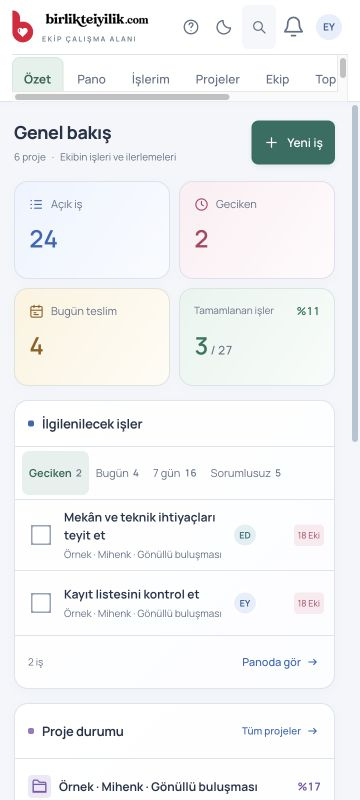
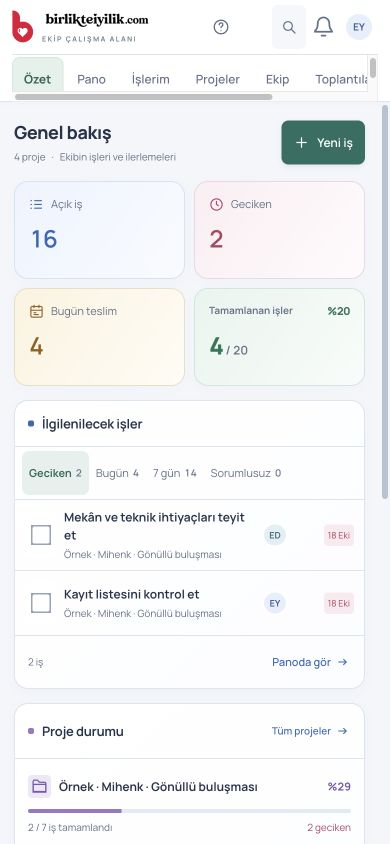
Refine completion card typography and smooth ring progress

diff --git a/web/dashboard.js b/web/dashboard.js
@@ -8,7 +8,7 @@
     const date=new Date(d.day+'T12:00:00Z').toLocaleDateString('tr-TR',{timeZone:'Europe/Istanbul',day:'numeric',month:'long',weekday:'long'});
     const emptyStart=!d.projects.length&&!d.items.length?`<section class="dash-start"><span>${I('projects')}</span><h2>${canCreate?'İlk işinizle başlayın':'İşleriniz burada görünecek'}</h2><p>${canCreate?'Ufak bir iş için Yeni iş yeterli. Birlikte yürütülecek bir çalışma için proje açabilirsiniz.':'Yeni iş ile kendinize bir günlük iş ekleyin. Size atanan proje işleri de burada görünür.'}</p>${canCreate?'<button class="h-btn primary" data-hub="new-project">Proje oluştur</button>':'<button class="h-btn" data-hub="nav" data-view="people">Ekibi gör</button>'}</section>`:'';
     return `<section class="dashboard-page"><header class="dash-heading"><div><h1 id="hub-heading" tabindex="-1">Genel bakış</h1><p>${d.projects.length} proje <span>·</span> Ekibin işleri ve ilerlemeleri</p></div><div><time datetime="${E(d.day)}">${E(date)}</time>${canWrite?`<button class="h-btn primary" data-hub="new-task">${I('plus')}Yeni iş</button>`:canCreate&&d.projects.length?`<button class="h-btn primary" data-hub="new-project">${I('plus')}Yeni proje</button>`:''}</div></header>
-    <section class="dash-summary" aria-label="Erişiminiz olan bütün projelerin özeti">${[['open',d.open,'Açık iş','tasks'],['overdue',d.attention.overdue.length,'Geciken','clock'],['today',d.attention.today.length,'Bugün teslim','calendar']].map(([filter,n,label,icon])=>`<button class="dash-stat ${filter}" data-hub="dashboard-board" data-filter="${filter}" aria-label="${n} ${label.toLocaleLowerCase('tr-TR')}; işleri gör"><span>${I(icon)}${label}</span><strong>${n}</strong>${I('arrow')}</button>`).join('')}<button class="dash-completed" data-hub="dashboard-board" data-filter="done" aria-label="${d.total} işten ${d.done} tanesi tamamlandı; işleri gör"><span>Tamamlanan işler <b ${d.total?'data-progress-number="dashboard:all" aria-hidden="true"':''}>${d.total?'%'+d.percent:'—'}</b></span><strong>${d.done}<small> / ${d.total}</small></strong><svg class="dash-ring" viewBox="0 0 48 48" aria-hidden="true" data-progress-key="dashboard:all" data-progress-value="${d.percent}" data-progress-kind="ring"><circle cx="24" cy="24" r="20" pathLength="100"/><circle data-progress-fill cx="24" cy="24" r="20" pathLength="100" style="stroke-dashoffset:${100-d.percent}"/></svg></button></section>
+    <section class="dash-summary" aria-label="Erişiminiz olan bütün projelerin özeti">${[['open',d.open,'Açık iş','tasks'],['overdue',d.attention.overdue.length,'Geciken','clock'],['today',d.attention.today.length,'Bugün teslim','calendar']].map(([filter,n,label,icon])=>`<button class="dash-stat ${filter}" data-hub="dashboard-board" data-filter="${filter}" aria-label="${n} ${label.toLocaleLowerCase('tr-TR')}; işleri gör"><span>${I(icon)}${label}</span><strong>${n}</strong>${I('arrow')}</button>`).join('')}<button class="dash-completed" data-hub="dashboard-board" data-filter="done" aria-label="${d.total} işten ${d.done} tanesi tamamlandı; işleri gör"><span>Tamamlanan işler <b ${d.total?'data-progress-number="dashboard:all" aria-hidden="true"':''}>${d.total?'%'+d.percent:'—'}</b></span><strong>${d.done}<small> / ${d.total}</small></strong><svg class="dash-ring" viewBox="0 0 48 48" aria-hidden="true" data-progress-key="dashboard:all" data-progress-value="${d.percent}" data-progress-kind="ring" data-progress-easing="smooth"><circle cx="24" cy="24" r="20" pathLength="100"/><circle data-progress-fill cx="24" cy="24" r="20" pathLength="100" style="stroke-dashoffset:${100-d.percent}"/></svg></button></section>
     ${emptyStart||`<div class="dash-main"><section class="dash-panel dash-attention"><header><h2>İlgilenilecek işler</h2></header><div class="dash-tabs" aria-label="İlgilenilecek işlerin filtresi">${Object.keys(labels).map(key=>`<button class="${tab===key?'active':''}" data-hub="dashboard-attention" data-filter="${key}" aria-pressed="${tab===key}">${labels[key]}<b>${d.attention[key].length}</b></button>`).join('')}</div><div class="dash-work-list" aria-live="polite">${rows.slice(0,4).map(t=>`<article class="dash-work"><button class="h-check dash-check" role="checkbox" aria-checked="false" aria-label="${E(t.text)} — tamamla" data-hub="toggle" data-key="${E(t.key)}" ${!t.editable?'disabled':''}></button><button data-hub="detail" data-key="${E(t.key)}"><strong>${E(t.text)}</strong><small>${E(t.boardName)}</small></button><span class="dash-work-owner">${avatar(t.owner,'',t.ownerId)}<span>${E(t.owner||'Atanmadı')}</span></span>${due(t)}</article>`).join('')||`<div class="dash-empty">${I('checkCircle')}<strong>${empty[0]}</strong><p>${empty[1]}</p></div>`}</div><footer><span>${rows.length>4?`İlk 4 / ${rows.length} iş`:rows.length+' iş'}</span><button class="h-link" data-hub="dashboard-board" data-filter="${tab}">Panoda gör ${I('arrow')}</button></footer></section>
     <section class="dash-panel dash-projects"><header><h2>Proje durumu</h2><button class="h-link" data-hub="nav" data-view="projects">Tüm projeler ${I('arrow')}</button></header><div>${d.projects.slice(0,4).map(b=>`<button class="dash-project" data-hub="project" data-id="${E(b.id)}"><span class="dash-project-name"><span>${I('projects')}<strong>${E(b.name)}</strong></span><b>${b.total?'%'+b.percent:'—'}</b></span><span class="dash-project-track" aria-hidden="true" data-progress-key="dashboard:${E(b.id)}" data-progress-value="${b.percent}"><i style="transform:scaleX(${b.percent/100})"></i></span><span class="dash-project-meta"><span>${b.total?b.done+' / '+b.total+' iş tamamlandı':'Henüz iş eklenmedi'}</span><span class="${b.late?'late':''}">${b.late?b.late+' geciken':b.open?b.open+' açık':b.total?'Tamamlandı':'İş ekle'}</span></span></button>`).join('')}</div></section></div>
     <section class="dash-panel dash-workload"><header><h2>İş paylaşımı</h2><span>Açık işler · sorumluya göre</span><button class="h-link" data-hub="nav" data-view="people">Ekibi gör ${I('arrow')}</button></header>${d.people.length?`<div class="dash-people">${d.people.slice(0,6).map(p=>`<button data-hub="dashboard-owner" data-owner="${E(p.key)}" aria-label="${E(p.name)}: ${p.open} açık iş, ${p.late} geciken">${avatar(p.name,'',p.id)}<span><strong>${E(p.name)}</strong><small>${p.late?p.late+' geciken':p.doing?p.doing+' devam ediyor':'Yapılacak işler'}</small></span><b>${p.open}<small>açık</small></b></button>`).join('')}</div>`:'<p class="dash-no-people">Sorumlusu belirlenmiş açık işler burada listelenir.</p>'}${d.attention.unassigned.length?`<button class="dash-unassigned" data-hub="dashboard-board" data-filter="unassigned">${I('user')} ${d.attention.unassigned.length} açık işin sorumlusu henüz belirlenmedi ${I('arrow')}</button>`:''}</section>`}

diff --git a/web/motion.js b/web/motion.js
@@ -18,7 +18,7 @@ function counterTick(now){
  counterFrame=0;
  for(const [el,c] of counters){
   if(!el.isConnected){counters.delete(el);continue;}
-  const t=Math.min(1,Math.max(0,(now-c.start)/c.duration)),ease=1-(1-t)**3;
+  const t=Math.min(1,Math.max(0,(now-c.start)/c.duration)),ease=c.smooth?t*t*(3-2*t):1-(1-t)**3;
   el.textContent='%'+Math.round(c.from+(c.to-c.from)*ease);
   if(t===1)counters.delete(el);
  }
@@ -32,10 +32,11 @@ function startProgress(track){
  const fill=track.querySelector('[data-progress-fill]')||track.firstElementChild;
  if(preference.matches||document.hidden||!fill?.animate){if(number)number.textContent='%'+value;return;}
  if(prior===value&&!replay)return;
- const from=replay?0:prior??0,ms=prior===undefined||replay?duration:650;
+ const from=replay?0:prior??0,smooth=track.dataset.progressEasing==='smooth',ms=prior===undefined||replay?(smooth?1200:duration):650;
  const frames=track.dataset.progressKind==='ring'?[{strokeDashoffset:100-from},{strokeDashoffset:100-value}]:[{transform:`scaleX(${from/100})`},{transform:`scaleX(${value/100})`}];
- animate(fill,frames,{duration:ms,easing});
- if(number){number.textContent='%'+from;counters.set(number,{from,to:value,start:performance.now(),duration:ms});if(!counterFrame)counterFrame=requestAnimationFrame(counterTick);}
+ // Linear time coordinates keep the ring and its numeric counter on the same curve.
+ animate(fill,frames,{duration:ms,easing:smooth?'cubic-bezier(.333333,0,.666667,1)':easing});
+ if(number){number.textContent='%'+from;counters.set(number,{from,to:value,start:performance.now(),duration:ms,smooth});if(!counterFrame)counterFrame=requestAnimationFrame(counterTick);}
 }
 const observer=typeof IntersectionObserver==='function'?new IntersectionObserver(entries=>{for(const e of entries)if(e.isIntersecting)startProgress(e.target);},{threshold:.15}):null;
 function progressMotion(){

diff --git a/web/night-ui.css b/web/night-ui.css
@@ -65,7 +65,16 @@ body.night-ui .h-task-due.overdue {background:var(--status-red-soft);color:var(-
 .night-ui .dash-stat.overdue>span svg,.night-ui .dash-stat.overdue>strong {color:var(--ui-rose)}
 .night-ui .dash-stat.today>span svg,.night-ui .dash-stat.today>strong {color:var(--ui-amber)}
 .night-ui .dash-completed strong,.night-ui .dash-completed b {color:var(--ui-mint)}
-.night-ui .dash-ring {width:54px;height:54px;stroke-width:3.5}.night-ui .dash-ring circle {stroke:#3c4b47}.night-ui .dash-ring [data-progress-fill] {stroke:var(--ui-mint)}
+.night-ui .dash-completed>span {font-weight:650;line-height:1.5;padding-right:72px}
+.night-ui .dash-completed>strong {font-weight:780;padding-right:72px}
+.night-ui .dash-completed strong small {font-weight:600;font-variant-numeric:tabular-nums}
+.night-ui .dash-completed b {position:absolute;right:20px;top:50%;transform:translateY(-50%);width:62px;text-align:center;font-size:12px;font-weight:800;font-variant-numeric:tabular-nums;letter-spacing:-.25px;line-height:1;z-index:1}
+.night-ui .dash-ring {width:62px;height:62px;stroke-width:5}.night-ui .dash-ring circle {stroke:#3c4b47}.night-ui .dash-ring [data-progress-fill] {stroke:var(--ui-mint)}
+.night-ui .dash-ring[data-progress-value="0"] [data-progress-fill] {visibility:hidden}
+@media(max-width:1150px){
+ .night-ui .dash-completed>span,.night-ui .dash-completed>strong {padding-right:0}
+ .night-ui .dash-completed b {position:static;transform:none;width:auto;font-size:11px;line-height:inherit}
+}
 .night-ui .dash-main {gap:20px;margin-bottom:20px}
 .night-ui :is(.dash-panel>header,.dash-panel>footer,.dash-tabs,.dash-work,.dash-project,.dash-unassigned) {border-color:var(--ui-line)}
 .night-ui .dash-panel>header {padding-block:15px}

diff --git a/web/index.html b/web/index.html
@@ -24,7 +24,7 @@
   <link rel="stylesheet" href="operations.css">
   <link rel="stylesheet" href="workspace-flow.css?v=20261019-guide2">
   <link rel="stylesheet" href="product-ui.css?v=20261019-guide2">
-  <link rel="stylesheet" href="night-ui.css?v=20261019-guide2" media="screen">
+  <link rel="stylesheet" href="night-ui.css?v=20261019-progress" media="screen">
   <link rel="stylesheet" href="project-setup.css?v=20261019-guide2">
   <link rel="stylesheet" href="light-ui.css?v=20261019-guide2" media="screen">
 </head>
@@ -88,7 +88,7 @@
   <script src="collab.js"></script>
   <script src="hub-model.js?v=20261019-guide2"></script>
   <script src="dashboard-model.js?v=20261019-guide2"></script>
-  <script src="dashboard.js?v=20261019-guide2"></script>
+  <script src="dashboard.js?v=20261019-progress"></script>
   <script src="examples.js"></script>
   <script src="templates.js"></script>
   <script src="project-setup.js?v=20261019-guide2"></script>
@@ -108,6 +108,6 @@
   <script src="firebase-client.js"></script>
   <script src="team.js?v=20261019-guide2"></script>
   <script src="coordination.js"></script>
-  <script src="motion.js?v=20261019-guide2"></script>
+  <script src="motion.js?v=20261019-progress"></script>
 </body>
 </html>

diff --git a/MIMARI.md b/MIMARI.md
@@ -447,7 +447,7 @@ Görsel inceleme: [_code_and_chill_ proje yönetimi dashboard Reel'i](https://ww
 - Görünüm sekmeleri Pano / İş planı / Takvim / Harita / Tablo. İşler ara ekranı kaldırıldı. `tree-workspace*` kaynakları eski editör yardımcıları için korunuyor; artık kullanıcıya ayrı sekme sunmuyor. Önceki İşler görünümü anlatımı tarihsel uygulama bilgisidir.
 - `work-plan.js` ekranda başlık/özet/durum/filtre bloklarını tek `wp-commandbar` içinde toplar. Yazdırma sürümü belge başlığını ve toplam özeti tutar. Aynı form, aynı yetki denetimi ve aynı kayıt kuyruğu kullanılır.
 - `operations.js` kartları tek satırlık başlık/kutu, adım barı, sorumlu/tarih ve durum alanından oluşur. Kontrol adımı ilerlemesi bağımsız iş tamamlanmasıyla karıştırılmaz.
-- `motion.js` yeni rota/panel girişini 420 ms ve en çok 180–200 ms kademeyle gösterir; aynı rotada arama veya kayıt yenilenmesi ekranı tekrar oynatmaz. Bar/ring ilk gösterimde 1000 ms, değişimde 650 ms; ikon çizimi 620 ms. Sürekli çalışan efekt yoktur. `prefers-reduced-motion` ve görünmeyen sekmede hareket iptal edilir.
+- `motion.js` yeni rota/panel girişini 420 ms ve en çok 180–200 ms kademeyle gösterir; aynı rotada arama veya kayıt yenilenmesi ekranı tekrar oynatmaz. Çubuklar ilk gösterimde 1000 ms, değişimde 650 ms; ikon çizimi 620 ms. Genel bakış tamamlanma halkası aşağıda açıklanan 1200 ms yumuşak eğriyi kullanır. Sürekli çalışan efekt yoktur. `prefers-reduced-motion` ve görünmeyen sekmede hareket iptal edilir.
 - Genel pano ve İşlerim içindeki adım barları da ortak `data-progress-key/value` protokolünü kullanır. Görev, rol, API, şema ve servis hesabı değişmedi; yeni bağımlılık veya ağ isteği eklenmedi.
 
 
@@ -466,3 +466,7 @@ Günlük iş, normal belge/iş kurallarını kullanır: `/changes` ile çakışm
 Zaman çizelgesi sekmesi kaldırıldı; eski `mode=timeline` bağlantıları `calendar` olarak çözülür. Takvim aylık düzen, seçilen günün işleri, sorumlular ve açılabilir tarihsiz iş listesi sunar. Telefonda gün seçilince gündem görünür alana alınır. Saatli ardıl görev otomasyonu eklenmedi.
 
 `web/guide.html` uygulamadaki yardım bağlantısından açılır. `docs/KULLANIM_REHBERI.md` aynı açıklamaları GitHub'da sunar; ekranlar `web/guide-images` altında tek kopyadır. Görseller yalnız yerel kurmaca veridir; gerçek hesap ve iş verisi içermez. Referans projenin kaynak kodu veya veritabanı taşınmadı.
+
+## Tamamlanma kartı — 19 Ekim 2026
+
+`dashboard.js` üzerindeki `data-progress-easing="smooth"`, yalnız bu halkanın ilk dolumunu 1200 ms yapar. `motion.js` SVG ve yüzde sayısını aynı `t²(3−2t)` eğrisiyle yürütür; başlangıç ve bitiş hızı sıfırdır. Sonraki veri değişiminde 650 ms geçiş korunur. Sıfır tamamlanmada renkli uç görünmez. Masaüstünde yüzde 62 px halkanın ortasındadır; dar ekranda başlığın yanında kalır. Kart yüksekliği ve metin boyutları korunur; değişken font ağırlıkları artırılır. Kullanım rehberinin özet görselleri günceldir.

diff --git a/DOĞRULAMA.md b/DOĞRULAMA.md
@@ -337,3 +337,10 @@ Son tercih doğrultusunda gezinme üst çubuğa taşındı. Masaüstünde 58 px;
 - `ekip.birlikteiyilik.com` üzerinde 15 dosyanın SHA-256 değeri yerel üretim derlemesiyle eşleşti: HTML, tema, proje hazırlığı, gezinti, takvim, özet, rehber ve bir rehber görseli. `/guide.html` HTTP 200; oturumsuz `/api/workspace` HTTP 401.
 - Canlı rehber Chrome'da açıldı. Yerel mobil kontrolde Takvim gününe basınca gündem 844 px ekranın içinde görünür oldu. Bu kontrol gerçek üretim verisine yazma yapmadı.
 - Güncel ZIP 131 kaynak + 65 derleme dosyası içerir; tüm dosya hash'leri ve ZIP bütünlüğü doğrulandı. `.env*`, `.vercel/`, kimlik bilgileri, `node_modules` ve Git geçmişi ZIP'e dahil edilmedi; yerel kaynak/ayarlar korunur.
+
+## 19 Ekim — tamamlanma kartı
+
+- 144 test ve üretim derlemesi başarılı. Değişiklik arayüz ve hareket katmanında; API/veri modeli değişmedi.
+- Chrome yerel örnek görünümünde açık/koyu tema, 390 px telefon ve 1160 px dar masaüstü kontrol edildi; sayfa yatay taşmıyor. Masaüstü kart yüksekliği 112 px kaldı.
+- 4 / 20 örneğinde halka %20, SVG dash-offset 80 değerinde durdu. Kart tıklandığında Genel pano yalnız 4 tamamlanmış işi gösterdi.
+- Masaüstü ve telefon rehber görüntüleri güncellendi. Gerçek üye/proje/görev kayıtlarına yazılmadı.
